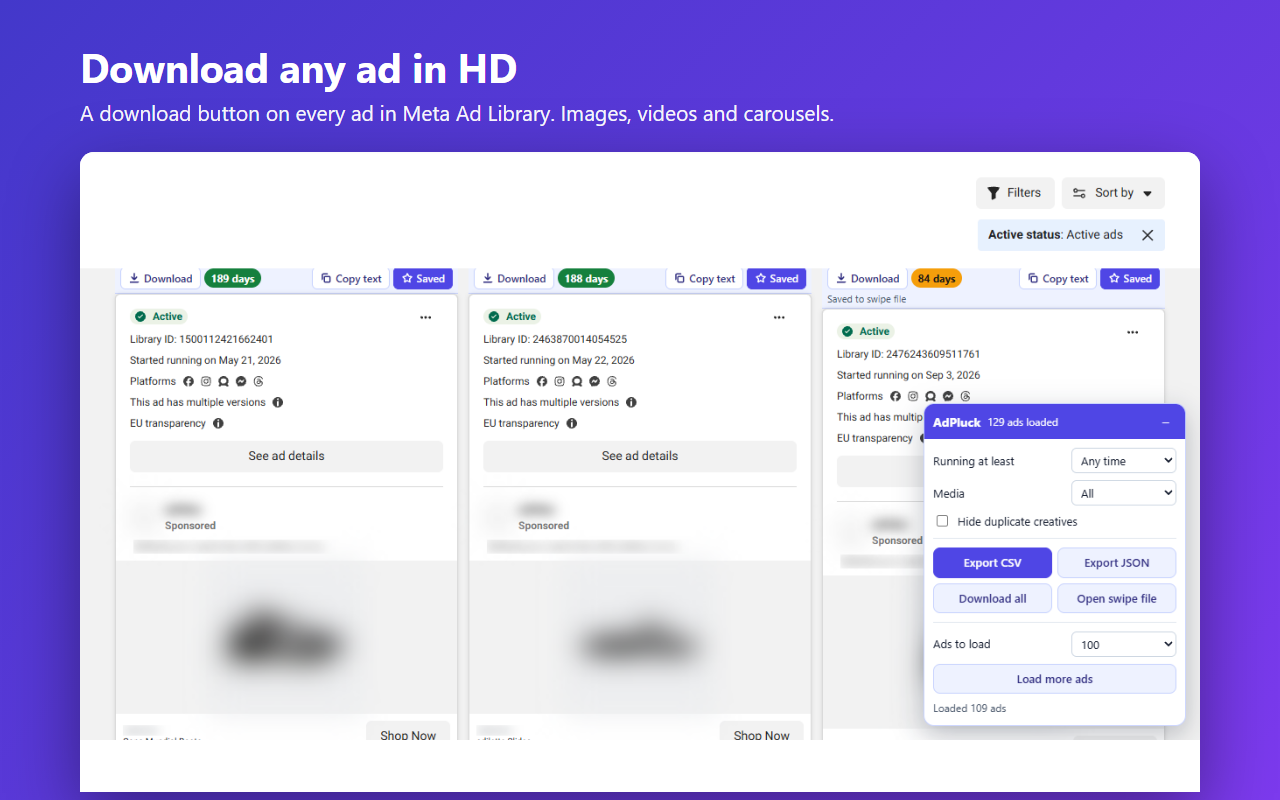
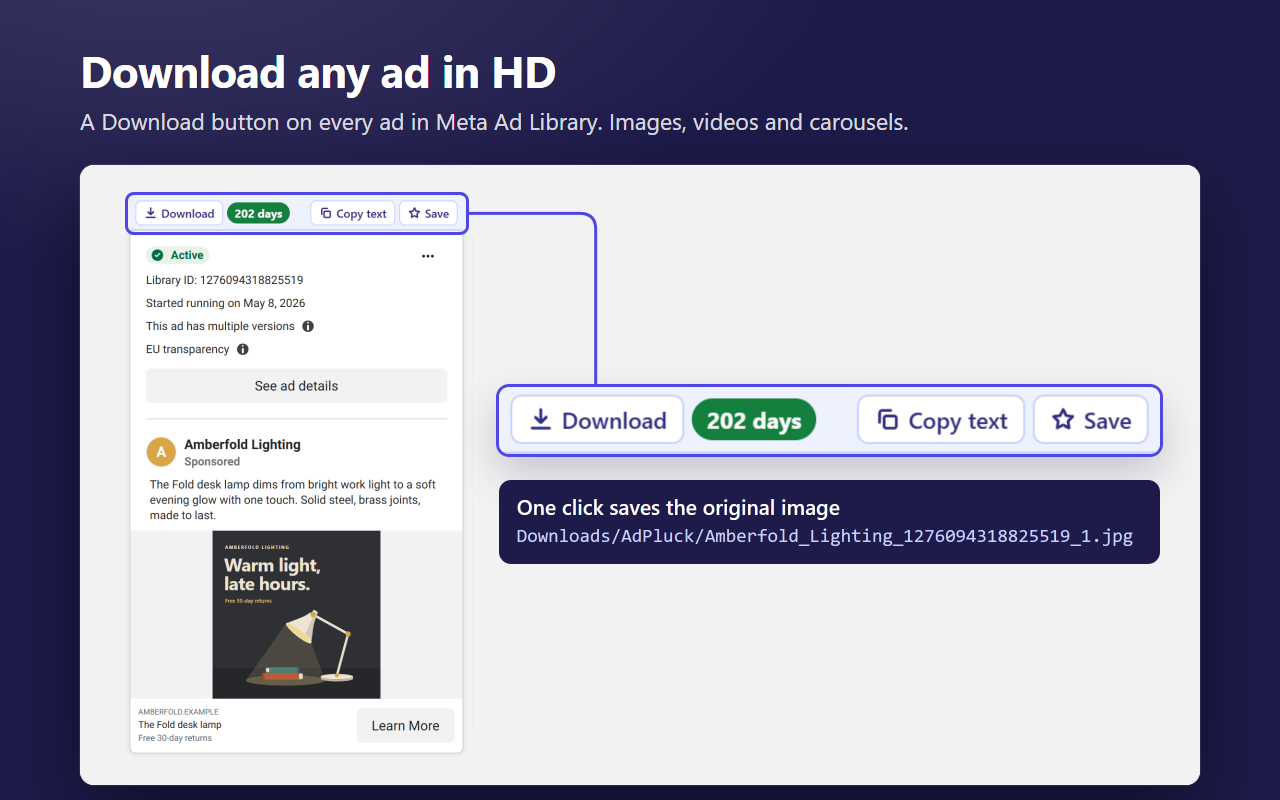
DocShift and AdPluck are in the Chrome Web Store: store buttons link to them, new product pictures

diff --git a/index.html b/index.html
@@ -34,7 +34,7 @@
       <li>On ChatGPT it reads the conversation data rather than the page layout, so a site redesign does not break it</li>
       <li>One extension for both sites. Free: 5 exports a week in full quality. Pro: unlimited, $2.99 a month or $19.99 once</li>
     </ul>
-    <div class="cta"><span class="btn soon">Add DocShift to Chrome · coming soon</span></div>
+    <div class="cta"><a class="btn" href="https://chromewebstore.google.com/detail/chatgpt-gemini-to-word-pd/jgfbbnekgjebhpeganjdichbadmenfba">Add DocShift to Chrome</a></div>
   </div>
 </section>
 
@@ -48,7 +48,7 @@
       <li>A private swipe file stored in your browser</li>
       <li>Free: unlimited single downloads. Pro: bulk download and full exports, $4.99 a month or $29 once</li>
     </ul>
-    <div class="cta"><span class="btn soon">Add AdPluck to Chrome · coming soon</span></div>
+    <div class="cta"><a class="btn" href="https://chromewebstore.google.com/detail/adpluck-ad-library-downlo/dppehnajeaghaacdkebgghagoennnngf">Add AdPluck to Chrome</a></div>
   </div>
 </section>
 
